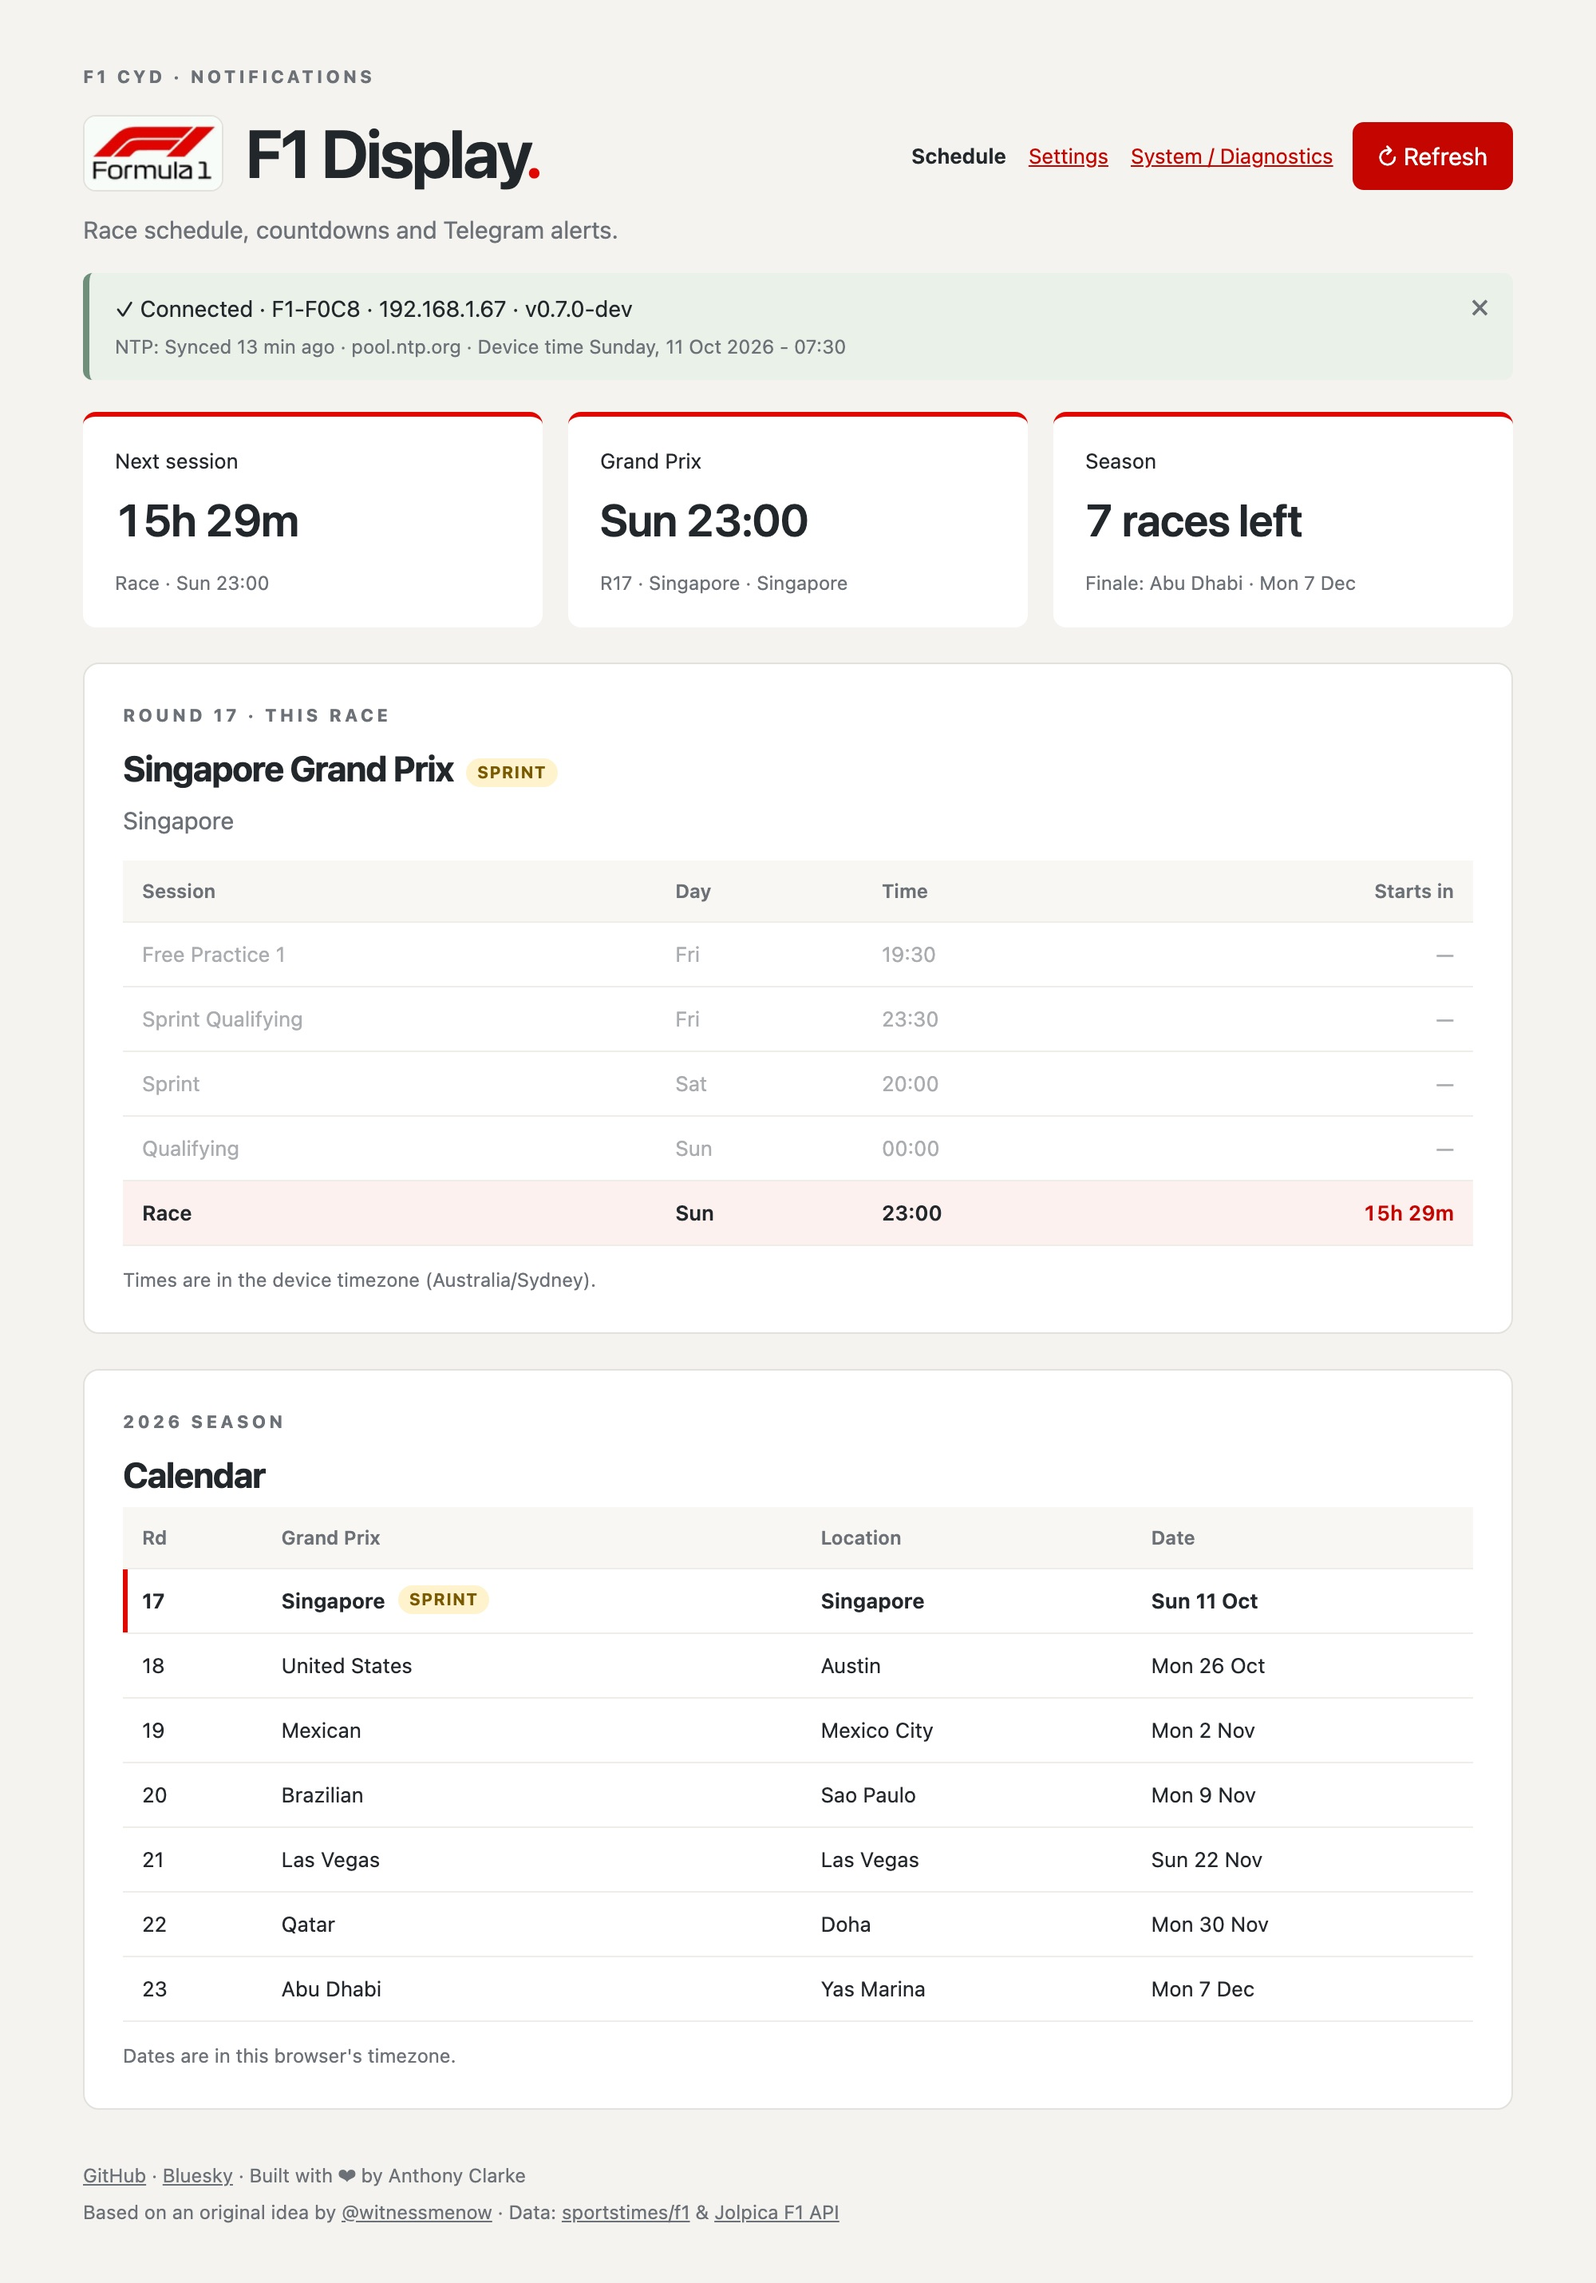
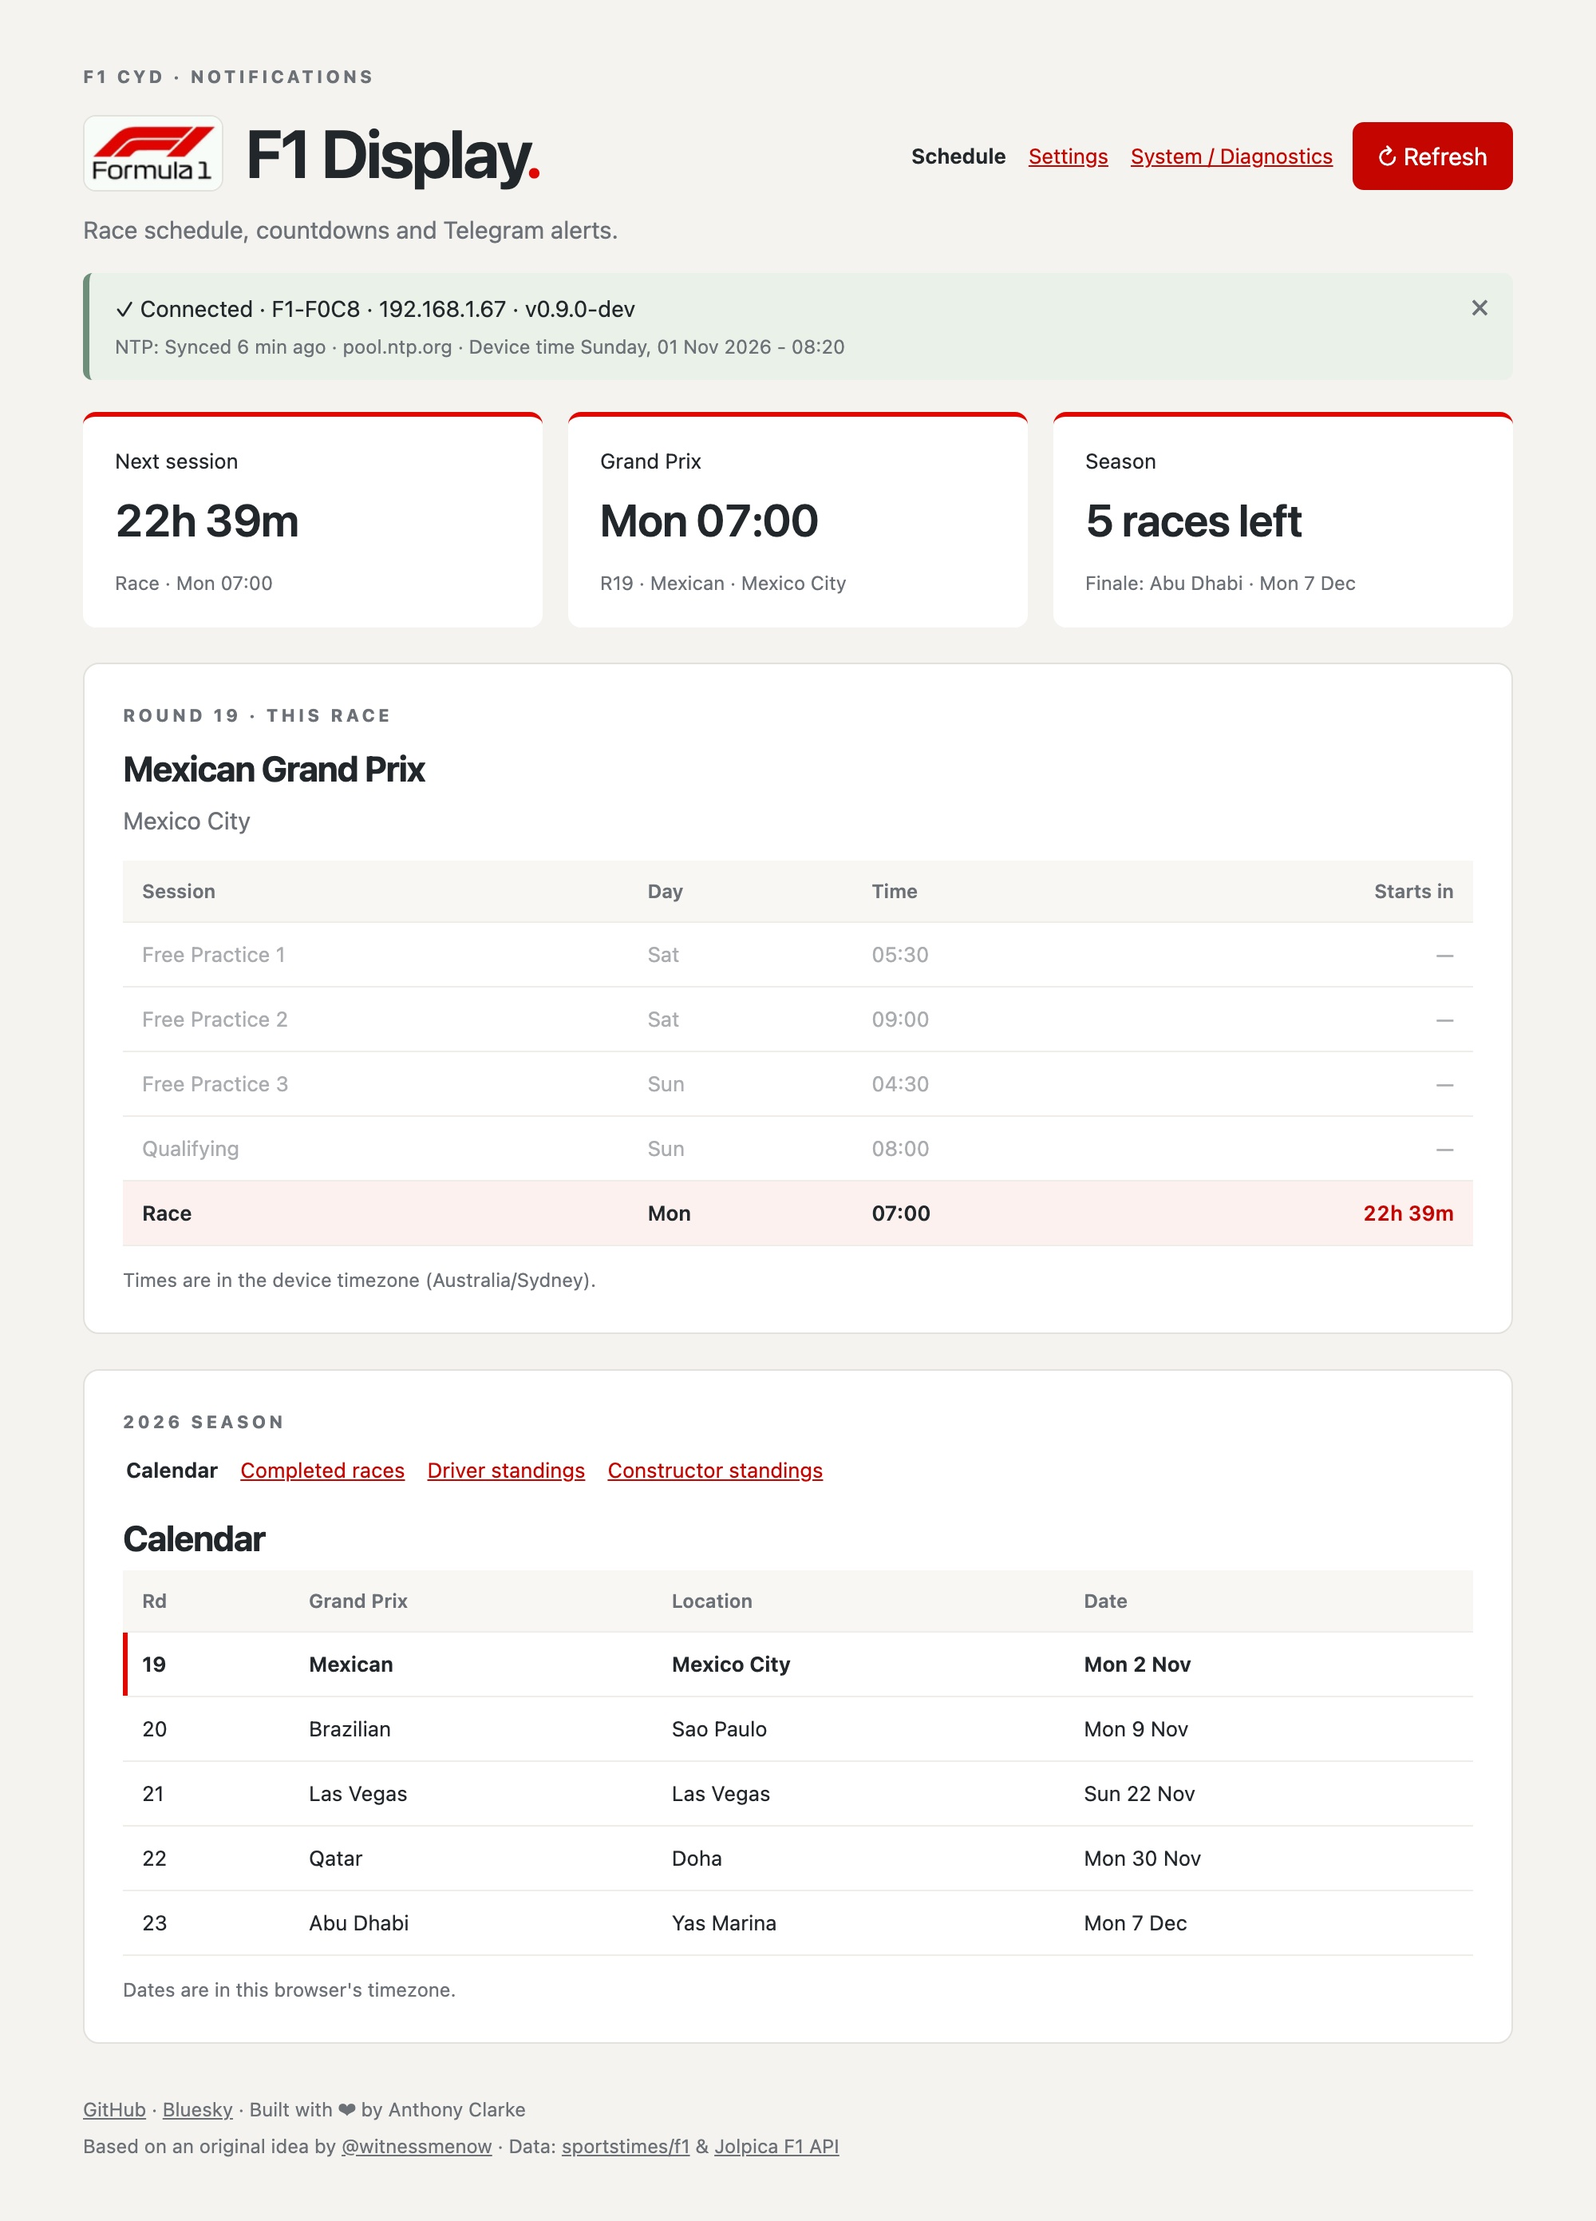
feat(webui): add driver and constructor standings tabs to 2026 season panel
Calendar and Completed races become tabs in one season panel alongside
Driver standings and Constructor standings. Standings are fetched
browser-side from Jolpica, like race winners. README, functional spec
and web UI screenshots updated.

diff --git a/include/web_server.h b/include/web_server.h
@@ -166,22 +166,48 @@ footer a{color:var(--muted)}
 
 <section class="panel">
   <p class="eyebrow">2026 season</p>
+  <nav class="actions" style="margin-bottom:12px">
+    <button type="button" class="tab active" id="sbtn-cal" onclick="showSeasonTab('cal')">Calendar</button>
+    <button type="button" class="tab" id="sbtn-done" onclick="showSeasonTab('done')">Completed races</button>
+    <button type="button" class="tab" id="sbtn-drv" onclick="showSeasonTab('drv')">Driver standings</button>
+    <button type="button" class="tab" id="sbtn-con" onclick="showSeasonTab('con')">Constructor standings</button>
+  </nav>
+
+  <div id="season-cal">
   <h2>Calendar</h2>
   <div class="table-wrap"><table id="seasonTable">
     <thead><tr><th>Rd</th><th>Grand Prix</th><th>Location</th><th>Date</th></tr></thead>
     <tbody id="seasonBody"><tr><td colspan="4" class="muted">Loading&hellip;</td></tr></tbody>
   </table></div>
   <p class="footnote">Dates are in this browser's timezone.</p>
-</section>
+  </div>
 
-<section class="panel">
-  <p class="eyebrow">2026 season</p>
+  <div id="season-done" hidden>
   <h2>Completed races</h2>
   <div class="table-wrap"><table id="doneTable">
     <thead><tr><th>Rd</th><th>Grand Prix</th><th>Location</th><th>Date</th><th>Winner</th></tr></thead>
     <tbody id="doneBody"><tr><td colspan="5" class="muted">Loading&hellip;</td></tr></tbody>
   </table></div>
   <p class="footnote">Winners from the Jolpica F1 API; each links to the full race results.</p>
+  </div>
+
+  <div id="season-drv" hidden>
+  <h2>Driver standings</h2>
+  <div class="table-wrap"><table>
+    <thead><tr><th>Pos</th><th>Driver</th><th>Team</th><th class="r">Wins</th><th class="r">Points</th></tr></thead>
+    <tbody id="drvBody"><tr><td colspan="5" class="muted">Loading&hellip;</td></tr></tbody>
+  </table></div>
+  <p class="footnote" id="drvNote">Standings from the Jolpica F1 API.</p>
+  </div>
+
+  <div id="season-con" hidden>
+  <h2>Constructor standings</h2>
+  <div class="table-wrap"><table>
+    <thead><tr><th>Pos</th><th>Constructor</th><th class="r">Wins</th><th class="r">Points</th></tr></thead>
+    <tbody id="conBody"><tr><td colspan="4" class="muted">Loading&hellip;</td></tr></tbody>
+  </table></div>
+  <p class="footnote" id="conNote">Standings from the Jolpica F1 API.</p>
+  </div>
 </section>
 </div>
 
@@ -316,6 +342,14 @@ function showTab(t) {
   history.replaceState(null, '', '#' + t);
 }
 
+const SEASON_TABS = ['cal', 'done', 'drv', 'con'];
+function showSeasonTab(t) {
+  SEASON_TABS.forEach(k => {
+    $('season-' + k).hidden = k !== t;
+    $('sbtn-' + k).classList.toggle('active', k === t);
+  });
+}
+
 // Status bar can be dismissed while healthy; remembered per browser
 let statusDismissed = false;
 try { statusDismissed = localStorage.getItem('f1StatusHidden') === '1'; } catch(e) {}
@@ -330,6 +364,7 @@ function refreshAll() {
   loadStatus();
   loadSchedule();
   loadRaces();
+  loadStandings();
 }
 
 async function renderLogo() {
@@ -734,6 +769,49 @@ async function loadRaces() {
   }
 }
 
+// Driver + constructor standings, fetched by the browser from Jolpica (same as winners above)
+const numCell = v => '<td class="cd">' + v + '</td>';
+
+async function loadStandingsList(kind) {
+  const r = await fetch('https://api.jolpi.ca/ergast/f1/2026/' + kind + 'Standings.json?limit=30');
+  const d = await r.json();
+  return d.MRData.StandingsTable.StandingsLists[0] || null;
+}
+
+function standingsNote(list) {
+  return 'After round ' + list.round + '. Standings from the Jolpica F1 API.';
+}
+
+async function loadStandings() {
+  try {
+    const list = await loadStandingsList('driver');
+    const tb = $('drvBody');
+    if (!list) { tb.innerHTML = '<tr><td colspan="5" class="muted">No standings yet</td></tr>'; }
+    else {
+      tb.innerHTML = list.DriverStandings.map(s =>
+        '<tr><td>' + s.positionText + '</td>' +
+        '<td><a href="' + s.Driver.url + '" target="_blank" rel="noopener">' +
+          s.Driver.givenName + ' ' + s.Driver.familyName + '</a></td>' +
+        '<td class="muted">' + s.Constructors.map(c => c.name).join(' / ') + '</td>' +
+        numCell(s.wins) + numCell(s.points) + '</tr>').join('');
+      $('drvNote').textContent = standingsNote(list);
+    }
+  } catch(e) { $('drvBody').innerHTML = '<tr><td colspan="5" class="muted">Load failed</td></tr>'; }
+
+  try {
+    const list = await loadStandingsList('constructor');
+    const tb = $('conBody');
+    if (!list) { tb.innerHTML = '<tr><td colspan="4" class="muted">No standings yet</td></tr>'; }
+    else {
+      tb.innerHTML = list.ConstructorStandings.map(s =>
+        '<tr><td>' + s.positionText + '</td>' +
+        '<td><a href="' + s.Constructor.url + '" target="_blank" rel="noopener">' + s.Constructor.name + '</a></td>' +
+        numCell(s.wins) + numCell(s.points) + '</tr>').join('');
+      $('conNote').textContent = standingsNote(list);
+    }
+  } catch(e) { $('conBody').innerHTML = '<tr><td colspan="4" class="muted">Load failed</td></tr>'; }
+}
+
 // Populate timezone and NTP server select options
 function populateSelects() {
   const tzOpts = [
@@ -780,6 +858,7 @@ loadStatus();
 loadDebug();
 loadSchedule();
 loadRaces();
+loadStandings();
 setInterval(loadStatus, 10000);
 setInterval(updateCountdowns, 1000);
 </script>

diff --git a/README.md b/README.md
@@ -246,15 +246,32 @@ Each notification is sent once per race: a bitmask saved to config right after e
 
 A light, single-page UI with three tabs. The status bar under the header shows connection, firmware version and NTP state, refreshed every 10 s.
 
-- **Schedule** – cards for the next session (live countdown), Grand Prix time and races left; the post-race podium; this weekend's sessions; the season calendar.
+- **Schedule** – cards for the next session (live countdown), Grand Prix time and races left; the post-race podium; this weekend's sessions; and the 2026 season panel (below).
 - **Settings** – timezone and NTP server, display brightness (0 = auto), Telegram bot token and chat ID with test / resend.
 - **System / Diagnostics** – firmware, network, hardware, system and F1-data panels, plus OTA update, TFT screenshot and serial debug level.
 
 The open tab is kept in the URL (`/#sch`, `/#cfg`, `/#diag`). The status bar can be dismissed with ×; it reappears by itself if the device is unreachable or NTP isn't synced.
 
+The **2026 season** panel at the bottom of the Schedule tab has four tabs:
+
+- **Calendar** – upcoming rounds; the current race is highlighted.
+- **Completed races** – past rounds with the winner, linked to the full race results.
+- **Driver standings** – position, driver, team, wins and points for the whole grid.
+- **Constructor standings** – position, team, wins and points.
+
+Winners and standings come from the Jolpica F1 API and are fetched by the browser, not the device, so they add no load or memory use on the ESP32. They reload with **Refresh**. A footnote shows which round the standings are after.
+
 ### Schedule
 
 ![Web UI Schedule](./images/WebUI_Schedule.jpg)
+
+### Driver standings
+
+![Web UI Driver standings](./images/WebUI_Drivers.jpg)
+
+### Constructor standings
+
+![Web UI Constructor standings](./images/WebUI_Constructors.jpg)
 
 ### Settings
 
@@ -278,7 +295,7 @@ Base URL: `http://<device-ip>/`
 - `POST /api/telegram/resend` resend the last successfully sent Telegram message
 - `GET /api/status` heap/uptime/IP and the Hardware & Diagnostics panel data
 - `GET /api/schedule` current race sessions
-- `GET /api/races` upcoming rounds list
+- `GET /api/races` all season rounds, past and future
 - `GET /api/debug` get debug level
 - `POST /api/debug` set debug level (0..4)
 - `POST /api/screenshot` queue TFT screenshot capture (SD card or RAM fallback)

diff --git a/FUNCTIONAL_SPEC.md b/FUNCTIONAL_SPEC.md
@@ -130,13 +130,18 @@ Endpoints:
 - `POST /api/telegram/resend` queue a resend of the last successfully sent Telegram message (`202`).
 - `GET /api/status` heap, uptime, IP, LDR, plus the Hardware & Diagnostics fields: firmware version, build time, running partition, Arduino core / IDF, board, chip, flash size, device name, MAC, SD state, WiFi SSID/RSSI, NTP sync state and server, local time, last reset reason, minimum heap / largest block, LittleFS usage, current race and cached results round.
 - `GET /api/schedule` current race sessions with local day/time and UTC.
-- `GET /api/races` compact upcoming season list.
+- `GET /api/races` compact season list (every round, past and future).
 - `GET /api/debug` get runtime debug level.
 - `POST /api/debug` set runtime debug level (0-4).
 - `POST /api/screenshot` queue screenshot capture (SD or RAM depending on SD availability).
 - `GET /api/screenshot/status` poll capture state: `{sd_ready, ram_ready, busy, lastPath, lastError}`.
 - `GET /api/screenshot/download?file=<name>` download named BMP from SD.
 - `GET /api/screenshot/download?ram=1` download RAM-captured BMP.
+
+Schedule tab, 2026 season panel:
+- Four tabs: Calendar (upcoming rounds), Completed races (with winner), Driver standings, Constructor standings.
+- Winners and standings are fetched by the browser directly from Jolpica (`/2026/results/1.json`, `/2026/driverStandings.json`, `/2026/constructorStandings.json`; CORS-enabled). The device makes no request for them.
+- Standings tables list the full field (position, name, team, wins, points) with a footnote giving the round they are after; they reload on Refresh. A failed fetch shows "Load failed" in that table only.
 
 ### 2.8 Screenshot Capture
 - Saves TFT captures as 24-bit BMP files to SD folder `/shots` when SD card is present.
@@ -219,6 +224,7 @@ Defaults when config missing/invalid:
 - Device refreshes schedule daily and retries results after race.
 - Device persists user config and notification bitmask.
 - Web UI can read/update config and show live status/schedule data.
+- Web UI shows the season calendar, completed races with winners, and driver and constructor standings.
 - Web UI can test Telegram credentials and resend the last successfully sent Telegram message.
 - Debug level can be changed at runtime.
 - OTA endpoint is reachable on local network.

diff --git a/CLAUDE.md b/CLAUDE.md
@@ -49,7 +49,7 @@ F1 race schedule display and Telegram notification system for ESP32-2432S028R. F
 - **WiFi reconnect**: `checkWiFiReconnect()` polls `WiFi.status()` every 30s. On drop → `WiFi.reconnect()`. On reconnect → `resyncNTP()` (sets 1s interval, fires `events()`, restores 1h interval) without blocking loop.
 - **Timezone-correct day counting** (`daysUntilLocalDate(targetUtc)`): Converts now and target to local civil dates using Gregorian day numbers, diffs to avoid DST/midnight issues. All `myTZ.tzTime()` calls use `UTC_TIME` flag. `nowUTC()` returns `::now()` (TimeLib epoch).
 - **F1 logo** (118×64 RGB565 PROGMEM): Rendered on white card (fillRoundRect + pushImage); designed for white backgrounds only.
-- **Season calendar**: `SeasonRace` array `seasonRaces[25]` holds every round (past and future) with round, isSprint, name, location, gpTimeUtc. Served via `/api/races`; web UI splits Calendar (upcoming) / Completed races. Winners are fetched browser-side from Jolpica (CORS `*`) – never add a device-side fetch for this.
+- **Season calendar**: `SeasonRace` array `seasonRaces[25]` holds every round (past and future) with round, isSprint, name, location, gpTimeUtc. Served via `/api/races`; web UI splits Calendar (upcoming) / Completed races. Winners and the web UI standings tabs are fetched browser-side from Jolpica (CORS `*`) – never add a device-side fetch for these.
 - **Standings display**: `STANDINGS_TOP_N=8` controls fetch limit and renderer loop for driver/constructor standings. Both fetch functions pass `?limit=STANDINGS_TOP_N` to API.
 - **Race pointers**: `getPrevRace()=races[0]`, `getCurrentRace()=races[1]`, `getNextRace()=races[2]`. `parseSchedule()` loads prev/current/next around `nextIdx`. Overlap check: once `nextIdx`'s GP has finished (start + 2 h) and `nextIdx+1` is within 7 days, advances `nextIdx` to enable combined rotation (results+race-week). Never advance before the GP has run – back-to-back weekends would lose that race's reminders.
 - **Post-race schedule updates** (`checkPostRaceExpiry()`): Re-parses the cached schedule when the current GP finishes (starts the combined rotation), and calls `fetchSchedule()` when the post-race window ends. `checkNtpRecovery()` re-parses once NTP syncs after a fallback-clock boot.

diff --git a/CHANGELOG.md b/CHANGELOG.md
@@ -19,6 +19,12 @@ Version scheme: `MAJOR.MINOR.PATCH`
 
 ## [0.9.0] Unreleased
 
+### Added
+- Web UI **Driver standings** and **Constructor standings** tabs in the 2026 season panel (position, driver/team, wins, points), fetched by the browser directly from the Jolpica API and refreshed with the Refresh button.
+
+### Changed
+- The 2026 season Calendar and Completed races panels are now tabs in a single panel.
+
 ## [0.8.0] 26-10-2026
 
 ### Added
